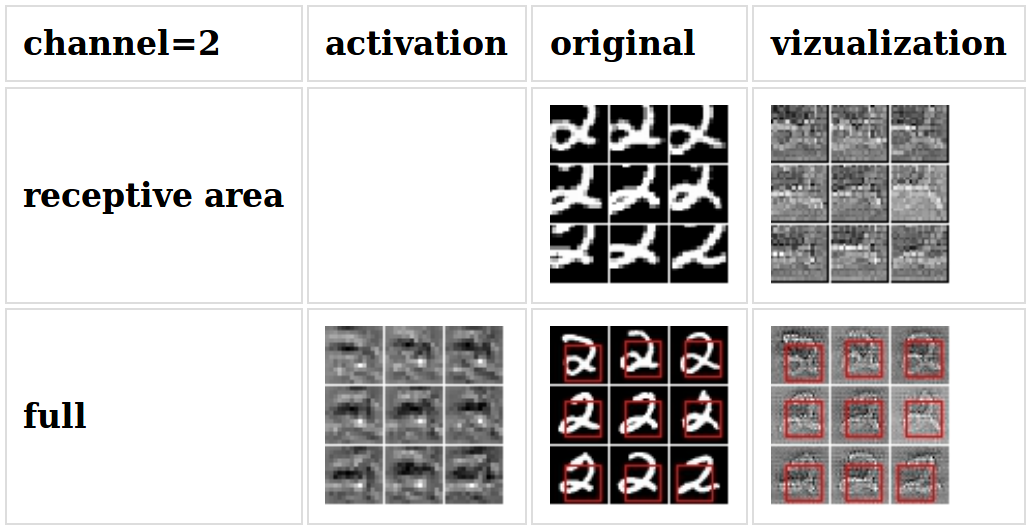
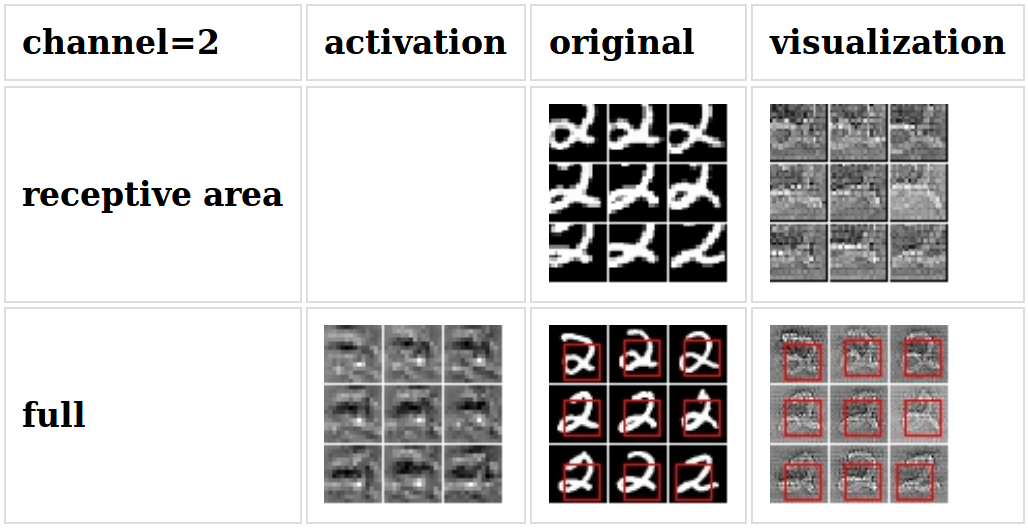
typo

diff --git a/script.js b/script.js
@@ -13,7 +13,7 @@ function disp_channel(path, i,  max, pxsize=200) {
         channel_name=i
         if (channel_name=="None"){channel_name="All"}
 
-        document.write("<table><tr><th>channel="+channel_name+"</th><th>activation</th><th>original</th><th>vizualization</th></tr>");
+        document.write("<table><tr><th>channel="+channel_name+"</th><th>activation</th><th>original</th><th>visualization</th></tr>");
         document.write("<tr><th>receptive area</th><td></td>");
         document.write("<td><img src=\""+path+max+"/" + i +"o"+ ".jpg\" /></td>");
         document.write("<td><img src=\""+path+max+"/" + i +"v"+ ".jpg\" /></td>");
